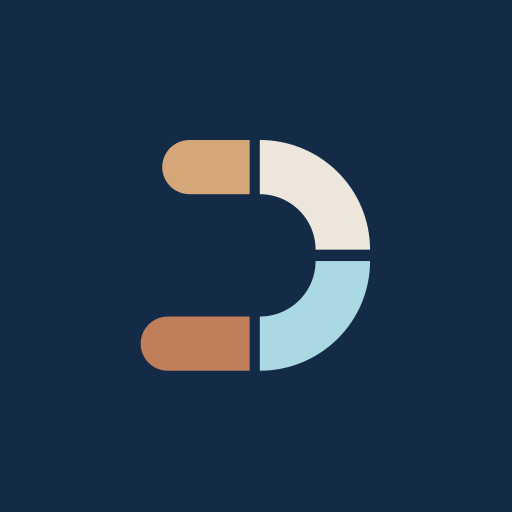
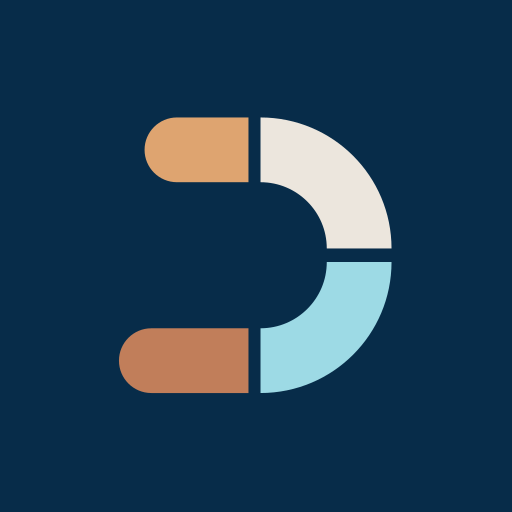
هوية: اعتماد لوحة ألوان الشعار الرسمية على كل الموقع
استخرجت الألوان من ملف الشعار المرسَل (Illustrator PDF) بالقياس
المباشر من البكسل، فتبيّن أنها لوحة دليل هوية الجمعية نفسها:

  #9DDAE5  أزرق فاتح   (Pantone 304 C)   — الشريط العلوي
  #072C49  أزرق نيلي   (Pantone 7463 C)  — القوس العلوي
  #007497  أزرق غامق   (Pantone 633 C)   — القوس السفلي والنص
  #DEA470  بني دافئ                      — الشريط السفلي

وبهذا زال اختلاف الأزرقين بين الشعار والواجهة: الاثنان #007497.

استُبدلت اللوحة السابقة في كل الأصول والمصدر:
  #317294 ← #007497   ·   #AAD8E3 ← #9DDAE5
  #132B47 ← #072C49   ·   #D5A678 ← #DEA470

شمل ذلك dal.svg و dal-dark.svg و dal-navy.svg و dal-white.svg
و icon.svg، وأعيد توليد الأيقونات كلها (64/180/192/512/maskable)
على أرضية #072C49 المطابقة لـ manifest.

فحص: لا بقية للوحة القديمة في public/ ولا scripts/، وصفحة الدخول
تُعرَض على مقاس iPhone بلا أي خطأ JavaScript.

Claude-Session: https://claude.ai/code/session_01LpiTNeULKqjvh35JkBQwVh

Changed region(s): [[0.2188, 0.2188, 0.7812, 0.7812]]

diff --git a/public/index.html b/public/index.html
@@ -480,8 +480,8 @@ html:has(.login),body:has(.login){background:var(--sand-2)}
 /* ===== الترويسة ===== */
 .lg-head{text-align:center;display:flex;flex-direction:column;align-items:center}
 .dal-w{display:flex;flex-direction:column;align-items:flex-start;gap:2px}
-.dal-w b{font-family:'Noto Kufi Arabic','Readex Pro',Tahoma,sans-serif;font-size:40px;font-weight:700;line-height:1;color:#317294;letter-spacing:-1px;white-space:nowrap}
-.dal-w span{font-family:'Noto Kufi Arabic','Readex Pro',Tahoma,sans-serif;font-size:14px;font-weight:400;color:#317294;letter-spacing:.5px}
+.dal-w b{font-family:'Noto Kufi Arabic','Readex Pro',Tahoma,sans-serif;font-size:40px;font-weight:700;line-height:1;color:#007497;letter-spacing:-1px;white-space:nowrap}
+.dal-w span{font-family:'Noto Kufi Arabic','Readex Pro',Tahoma,sans-serif;font-size:14px;font-weight:400;color:#007497;letter-spacing:.5px}
 .lg-logo{position:relative;display:flex;flex-direction:row-reverse;align-items:center;gap:16px;margin-bottom:6px}
 .lg-logo img{height:76px;width:auto}
 /* شعار الجمعية في الرأسين الداكنين: العلامة بيضاء بحجم مناسب */

diff --git a/scripts/patch.py b/scripts/patch.py
@@ -542,8 +542,8 @@ html:has(.login),body:has(.login){background:var(--sand-2)}
 /* ===== الترويسة ===== */
 .lg-head{text-align:center;display:flex;flex-direction:column;align-items:center}
 .dal-w{display:flex;flex-direction:column;align-items:flex-start;gap:2px}
-.dal-w b{font-family:'Noto Kufi Arabic','Readex Pro',Tahoma,sans-serif;font-size:40px;font-weight:700;line-height:1;color:#317294;letter-spacing:-1px;white-space:nowrap}
-.dal-w span{font-family:'Noto Kufi Arabic','Readex Pro',Tahoma,sans-serif;font-size:14px;font-weight:400;color:#317294;letter-spacing:.5px}
+.dal-w b{font-family:'Noto Kufi Arabic','Readex Pro',Tahoma,sans-serif;font-size:40px;font-weight:700;line-height:1;color:#007497;letter-spacing:-1px;white-space:nowrap}
+.dal-w span{font-family:'Noto Kufi Arabic','Readex Pro',Tahoma,sans-serif;font-size:14px;font-weight:400;color:#007497;letter-spacing:.5px}
 .lg-logo{position:relative;display:flex;flex-direction:row-reverse;align-items:center;gap:16px;margin-bottom:6px}
 .lg-logo img{height:76px;width:auto}
 /* شعار الجمعية في الرأسين الداكنين: العلامة بيضاء بحجم مناسب */
